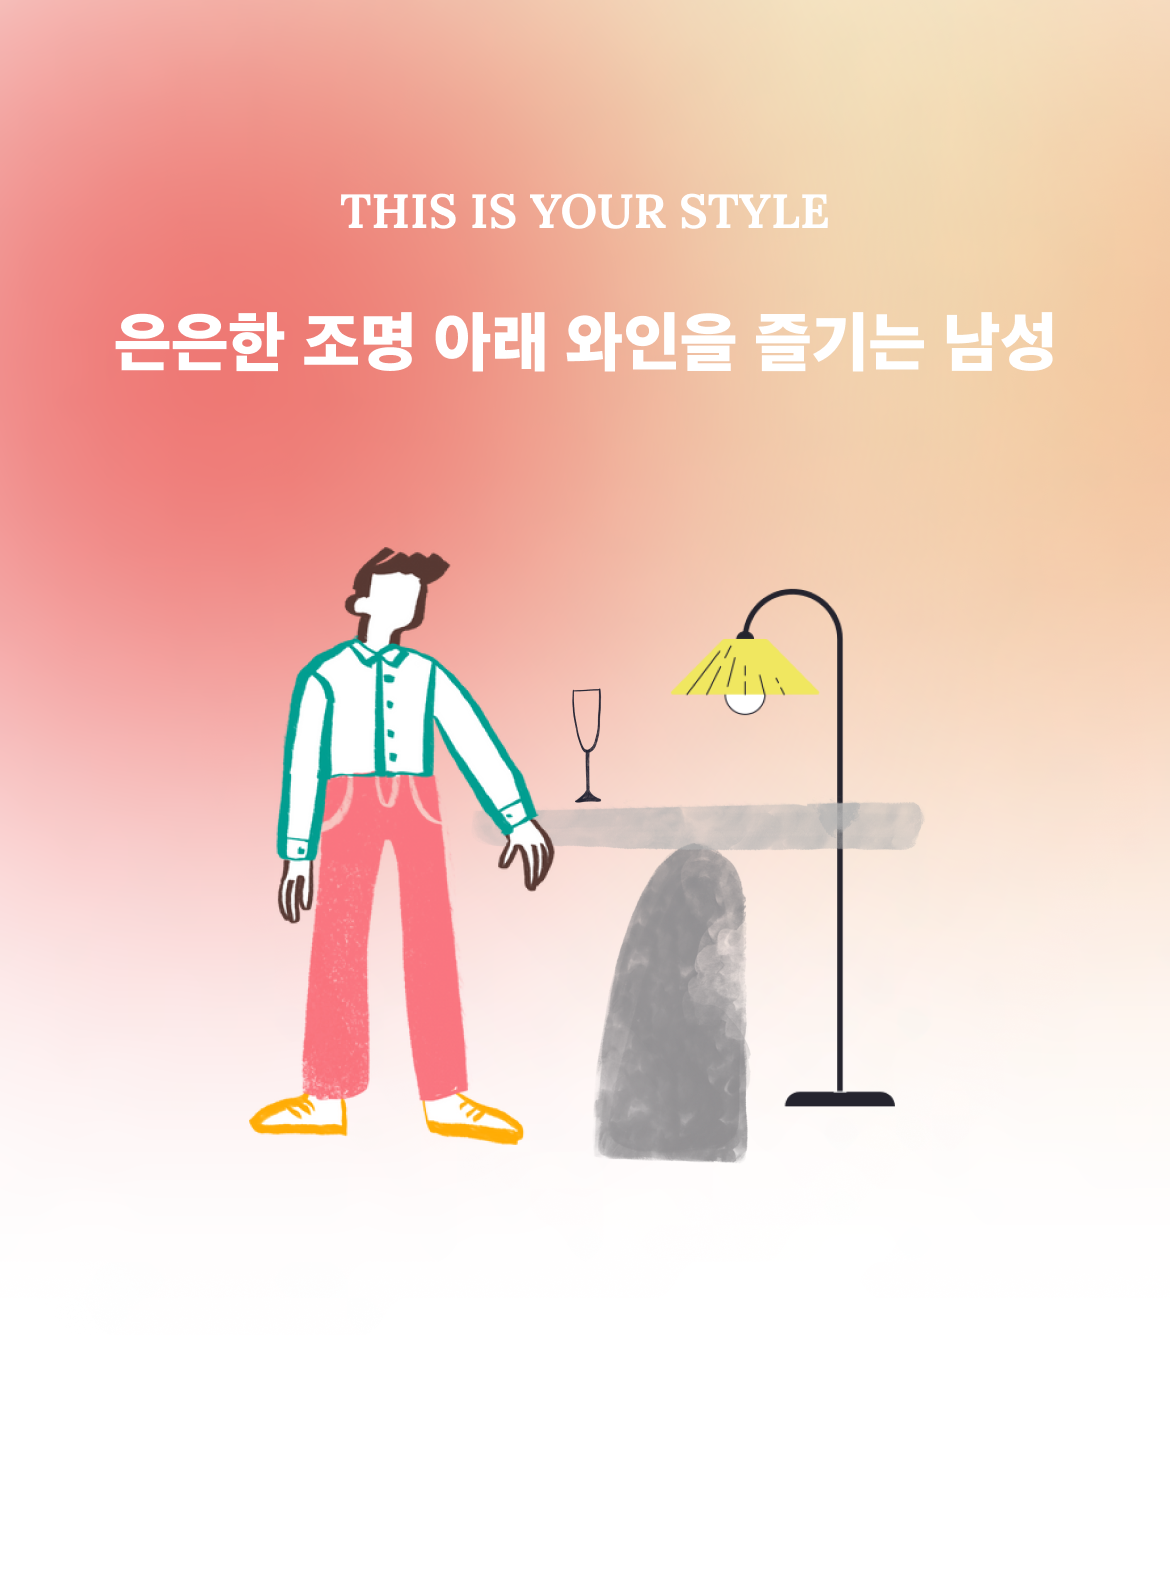
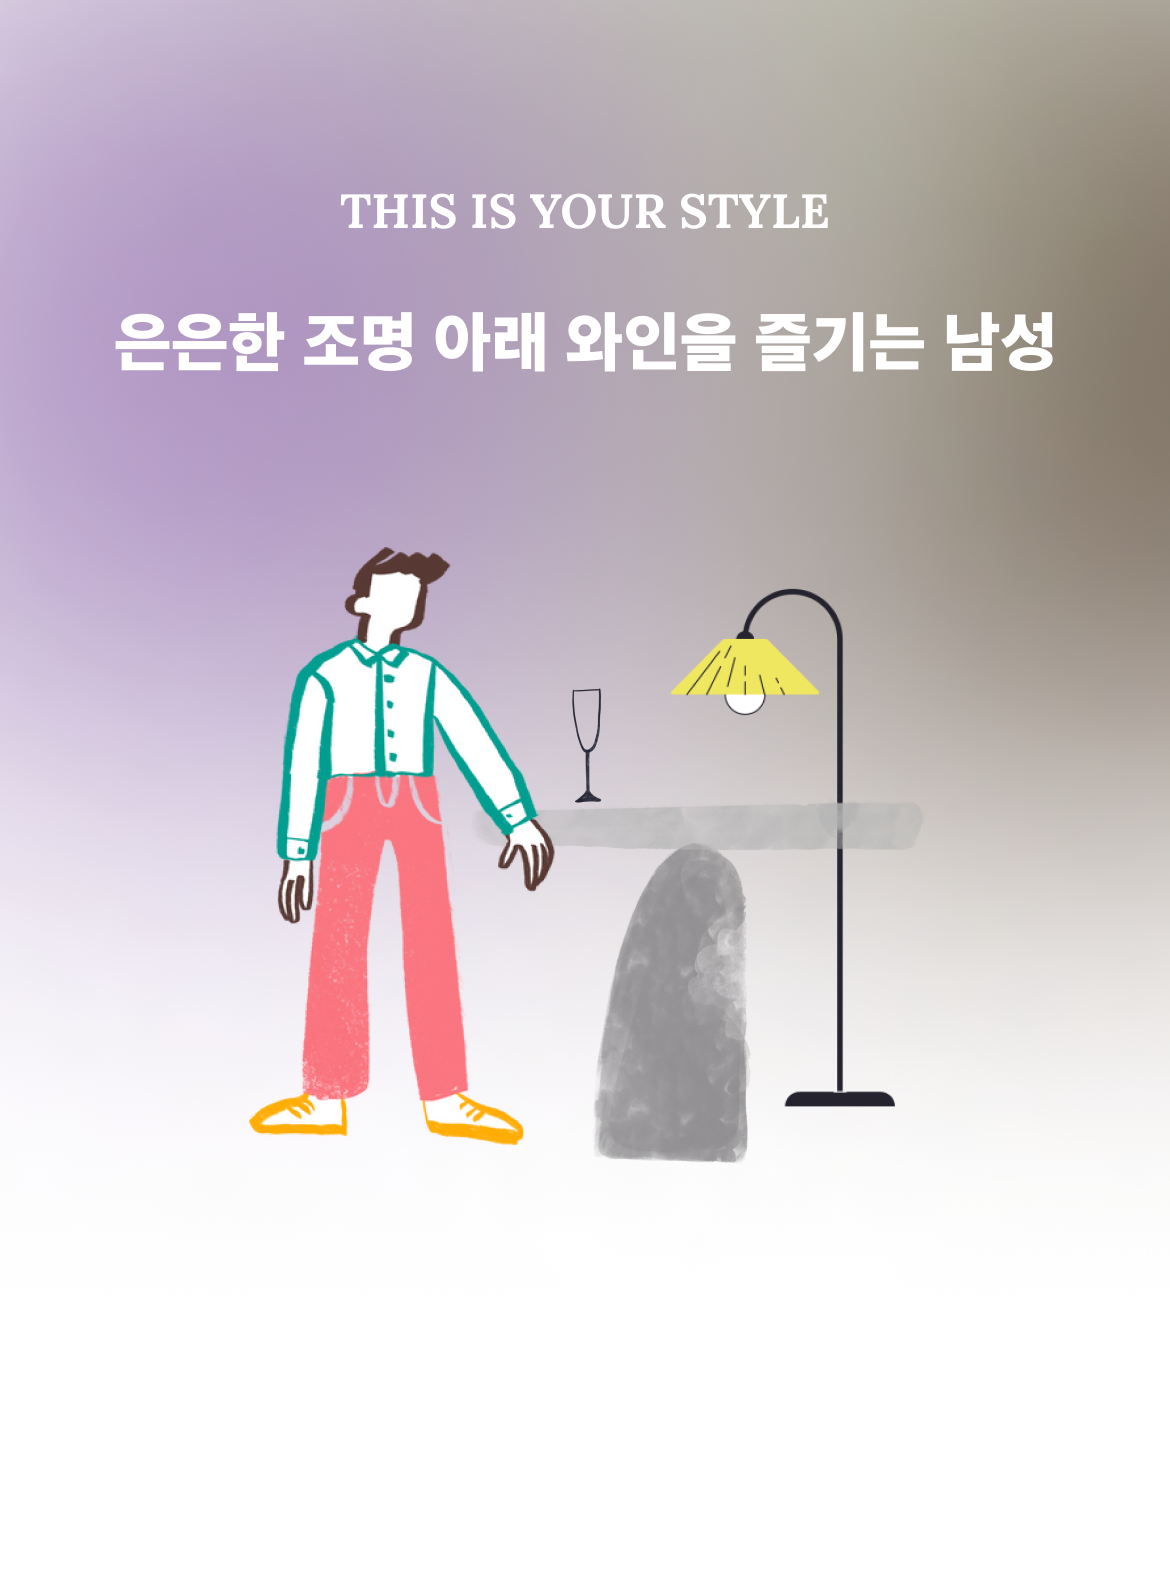
1023 1

diff --git a/flutter_service_worker.js b/flutter_service_worker.js
@@ -4,8 +4,8 @@ const TEMP = 'flutter-temp-cache';
 const CACHE_NAME = 'flutter-app-cache';
 
 const RESOURCES = {"version.json": "d8951f8942f3ae19e6043c8b2a510dae",
-"index.html": "24374c07da095ad0c45d7f852df7d019",
-"/": "24374c07da095ad0c45d7f852df7d019",
+"index.html": "068eb2956b9cf564be926512f9c8e0dc",
+"/": "068eb2956b9cf564be926512f9c8e0dc",
 "main.dart.js": "542a83bde2e9618bd3c0b12207390a19",
 "flutter.js": "6fef97aeca90b426343ba6c5c9dc5d4a",
 "favicon2.png": "5dcef449791fa27946b3d35ad8803796",
@@ -28,6 +28,7 @@ const RESOURCES = {"version.json": "d8951f8942f3ae19e6043c8b2a510dae",
 ".git/objects/95/0935db34f4880a3c4da97859585be125ddf6f7": "42fea2613f91b27ac9804f343d9e9710",
 ".git/objects/59/85c2cf6d5863d08c655ee8e7881988bec254b8": "2ac31e3530965f87931046513aa00b35",
 ".git/objects/59/d18528bca12a9aeff9448a7ffb9ee79105aab5": "489fc232e756a3bb746a432fb91f5aa3",
+".git/objects/59/f36241c86f83bca5dc18810572b26842239f37": "36e5f93f9d0445452f3f068721704b67",
 ".git/objects/59/75cabdecba54a56639e094a899e27b8d12a6d9": "5666cbae3f8def3c97d9a9332cf151d9",
 ".git/objects/59/9ec8172ad8a00bb41a6f788983d2f49ddb20a4": "447ba2d9ba9d003dc607342dcce943d2",
 ".git/objects/92/6fb560ad5cc378d42b26122445dd8dcc5c5762": "3fab85c2385131869a8e2f9a8169dd64",
@@ -77,6 +78,7 @@ const RESOURCES = {"version.json": "d8951f8942f3ae19e6043c8b2a510dae",
 ".git/objects/9e/5e1f1b6053cbe66378817c3d83a89ee430173f": "415cbf69b86b68fe3a73e8bbddc95c24",
 ".git/objects/9e/aec9cb0f6ea78efe80b3228af680befdc6802a": "c6e97df453364ae7702b1aefc11dc4e2",
 ".git/objects/9e/0b6c5bce9fbdfbcf55401a6f58ba9053bfb6b3": "8d7c3feca34c14e22d44f5f69ad0695c",
+".git/objects/9e/b8f32bbcce2aea75a32ca76ee81f0bea1f121a": "a99b2a9033d789cdc793196efcf4a045",
 ".git/objects/04/528fb730ae5151e5d5caf76c3173cb50d4ec0b": "90d8123782b65419b95fe776fa142a1b",
 ".git/objects/04/4387bd3697b0696b81f4a0888898a89a6947da": "c6f0c5a8f3f688c0df2e71739727a46c",
 ".git/objects/04/4e41acf66475f09c37f7ae4bfa0f09b050a538": "4b3894edd4289241bfa70b07040c37d7",
@@ -134,6 +136,7 @@ const RESOURCES = {"version.json": "d8951f8942f3ae19e6043c8b2a510dae",
 ".git/objects/60/7ba5b63573a0ea35c570a75bf5c618aadcbfd4": "f7fe8cbc1e107d646a17fc10370ed044",
 ".git/objects/34/718f4081ce3f2995a769e2b3d3d1e6782d0192": "64f945704ee1706018a2d89e3c77bd4a",
 ".git/objects/34/c4f93cc5c5d1a6d008e666660c472385d5c6ef": "7d68bf9748ff844bcea7676609e2d15b",
+".git/objects/34/e41074e9311a4975cde1093b0010bb00ebb6b0": "cb0b407b428d2abe8ae4549676dd64e9",
 ".git/objects/5a/d7273d06d77d966912839d2c11192f8d1d768e": "987ff91efc7efb67f9b3dd4757a7b0cf",
 ".git/objects/5a/7997dcba94365f761723e9abfbddfbd9258ebb": "0f07dc1be0ab92b51f8c9f40255897da",
 ".git/objects/5f/f48a4a6e64783d82315fca1cdbbbf19fa1c274": "3b668fe3f38d5a04dbfe90c69ca6e716",
@@ -381,6 +384,7 @@ const RESOURCES = {"version.json": "d8951f8942f3ae19e6043c8b2a510dae",
 ".git/objects/7e/0469cceab7378cf96bc1bd7d318eb9b9b64cf1": "c15edaae1f527730325dbfd28df08fec",
 ".git/objects/7e/8ed4edfb9befebc794d77faa551c65cd3d4b82": "d9a120078b4847a5f6a3ae786d7cf412",
 ".git/objects/7e/99d788e397d805dfb138dff88120d1046e773e": "bef673a55bf7d326c2e900a8da93e778",
+".git/objects/7e/3488e34e6d82239af3725fb66657f5260446b1": "efe03ee8b726710ec0f660f8d2b6103a",
 ".git/objects/10/ae1fab83ee7e579601bb499405bdebd3aabd02": "cf230e019a3e409e76f9d4b47acbd95a",
 ".git/objects/10/892eeceac74ac4b0066e16dc68906a2aafb5c6": "54bb3340600731d49d0b2f1abb81d2a6",
 ".git/objects/10/eff668f099a1275a81505e635c121412546702": "db1f4890e67162aa62424e3693b7e506",
@@ -509,6 +513,7 @@ const RESOURCES = {"version.json": "d8951f8942f3ae19e6043c8b2a510dae",
 ".git/objects/5e/5b0ceb25e0d6bbe5e5eb9af86ef1f874a79457": "4963a76c2b5ffb41dd1b8daac3d709c2",
 ".git/objects/5e/907014ac709f0c88753b39cd64e9036d94a871": "37c802ac76864776118228a20ed903b6",
 ".git/objects/5e/faeff389f2497bf417e514505e88b1fe33fb86": "42f9a5447f28c03d161adcd609fe7124",
+".git/objects/37/658e85cf8cf74a6d5b8ff8c093b11b637d3ef3": "b0c867b157c0b45e0e7aa29f442dca6a",
 ".git/objects/37/636a212667236ded5d4ce324927fcc4a084384": "f7caa9ce86261b15d00c9ddcc2052592",
 ".git/objects/08/48a05f799bd1f55ddcac753078e3324efd10ba": "a831d9bb99e76e9be962885c89667261",
 ".git/objects/08/f86f323edfcca0dda13ac50f4ead9c441dff92": "888e1f5de165da5fcc1cb22b1a8fc0a7",
@@ -735,6 +740,7 @@ const RESOURCES = {"version.json": "d8951f8942f3ae19e6043c8b2a510dae",
 ".git/objects/ce/aaff13ba1cd26c6ed671e0212f3bc84e7f7293": "39a1dd9017675edc31f4083593b55a2e",
 ".git/objects/ce/67fed36fc22d42848ea9569421eb4db6ed723e": "159789407d32b08b6a6c9764089ca0e9",
 ".git/objects/e0/cfb6cc910a76fc104b29a86f5ce12a43fdbd52": "4f463d2b6c8fce593a167a32c7d1b061",
+".git/objects/e0/ba6a0baa3e75b74bb0f36f384e42c349192bad": "6f369a1bf50836220197513e88dbd971",
 ".git/objects/e0/96e8db13e5358b8c3644e085b8c8329df03d11": "6c3f2a60992688ec68b1a5701142d167",
 ".git/objects/46/c2188a25cfd1c4e51ee5e08d2136d4c9aacb7c": "c991c7a60a13015de9a1c6d7189a2023",
 ".git/objects/46/72c69afa868f8e82c10bb0dd4190f294508616": "be85ce7f8bcae2665ea16a009b949116",
@@ -807,6 +813,7 @@ const RESOURCES = {"version.json": "d8951f8942f3ae19e6043c8b2a510dae",
 ".git/objects/8c/37574a5105571e032547ff6e896be93abc44c2": "939befa37c16fac1f4ea53cc1baa0e15",
 ".git/objects/8c/d2271e5bf7ccc1174d9edc5c06b53266490e2b": "3aaba7bfd40c6217b5291d216b44c755",
 ".git/objects/8c/35a2086fac0d0c2ddba9e835488bcd827eebf8": "5c6818f9be2ee33134d1297a21e81261",
+".git/objects/85/63dcb49e66d28b31c577a779fa6c919d8669a9": "2d8571f8fa7558d1e6f9488acff5e466",
 ".git/objects/1d/94b2cae4675907077535f4ea91c76bd1c75151": "a0c31599077c39e91298b484a7e43f6e",
 ".git/objects/1d/357a893b63f618c95c1c87174f7a7201d75358": "7fb9281574148fa914ef90c5d88be242",
 ".git/objects/1d/3a2f6c6f5e71a433b46fef9c56e12a1b40d555": "e804fcf2a500675387ab0ef9bc4092a3",
@@ -878,9 +885,9 @@ const RESOURCES = {"version.json": "d8951f8942f3ae19e6043c8b2a510dae",
 ".git/objects/25/532c887bc25c9b6ba59c899949c24e864cfe76": "4e1aa81a33201647740b716491afac62",
 ".git/HEAD": "4cf2d64e44205fe628ddd534e1151b58",
 ".git/info/exclude": "036208b4a1ab4a235d75c181e685e5a3",
-".git/logs/HEAD": "804479ff1f06bf509bd2b98e25710d95",
-".git/logs/refs/heads/master": "804479ff1f06bf509bd2b98e25710d95",
-".git/logs/refs/remotes/test04/master": "f2b28ffe9055e04af1c8d3e08be902e3",
+".git/logs/HEAD": "9ff3d3945899cac60e6f7899bb1b4e74",
+".git/logs/refs/heads/master": "9ff3d3945899cac60e6f7899bb1b4e74",
+".git/logs/refs/remotes/test04/master": "3b49820410b4cec9bab56e134dbf6738",
 ".git/logs/refs/remotes/test03/master": "c99b5dd75f04788f2e13f33c4750de7a",
 ".git/logs/refs/remotes/origin/HEAD": "52327f6484a06e6c13ed57441753f7d9",
 ".git/logs/refs/remotes/origin/master": "6068c1d21ec327e425dc69677e09de44",
@@ -898,14 +905,14 @@ const RESOURCES = {"version.json": "d8951f8942f3ae19e6043c8b2a510dae",
 ".git/hooks/pre-push.sample": "2c642152299a94e05ea26eae11993b13",
 ".git/hooks/update.sample": "647ae13c682f7827c22f5fc08a03674e",
 ".git/hooks/push-to-checkout.sample": "c7ab00c7784efeadad3ae9b228d4b4db",
-".git/refs/heads/master": "cb7fdf414e8c8c81eba66481dbd444ac",
-".git/refs/remotes/test04/master": "cb7fdf414e8c8c81eba66481dbd444ac",
+".git/refs/heads/master": "0c9b3770083bf6ad50ab80615ffe9b06",
+".git/refs/remotes/test04/master": "0c9b3770083bf6ad50ab80615ffe9b06",
 ".git/refs/remotes/test03/master": "8a1a80d17008b7b833ce739a6caab2d8",
 ".git/refs/remotes/origin/HEAD": "73a00957034783b7b5c8294c54cd3e12",
 ".git/refs/remotes/origin/master": "e8ec40e7be606e6d217ad3d1a412b848",
-".git/index": "b29cf05a317958c1674a77eb9bd39bb9",
+".git/index": "adc02eba10c16e5d100cc8dc792ec9b5",
 ".git/packed-refs": "c03a566346ed9045f5aa3b6936a67a9d",
-".git/COMMIT_EDITMSG": "a5412f0828e2282003ed484231adb8e2",
+".git/COMMIT_EDITMSG": "8ac9d4ed2507255cc9d12157a3d3ffb9",
 ".git/FETCH_HEAD": "155643b4f743066a3c741ed2a766d98c",
 "assets/AssetManifest.json": "9a8f696912595343bffbace5f373a717",
 "assets/NOTICES": "f0b0f9c78438c8945054105adbd74b80",
@@ -1095,12 +1102,13 @@ const RESOURCES = {"version.json": "d8951f8942f3ae19e6043c8b2a510dae",
 "assets/assets/images/lcResult/cover/whisky_man.png": "641b737ef9a7c3f0c2292abd5fc0b8a4",
 "assets/assets/images/lcResult/cover/career_woman.png": "a1a598a763d85dacc4b794d8f349ff52",
 "assets/assets/images/lcResult/cover/angel_of_pond.png": "6414eb5bdeae51c732867991ece65c2e",
-"assets/assets/images/lcResult/cover/wine_man.png": "2684adc383e9083f5ca126d0e6c3393a",
+"assets/assets/images/lcResult/cover/wine_man.png": "e11e793e07871af4367c6825933b808e",
 "assets/assets/images/lcResult/cover/producer_man.png": "97d21cdd6898692b12a1101d905cae4b",
 "assets/assets/images/lcResult/cover/picnic_girl.png": "82433f8ce3d49ccb0e70c018f790fe91",
 "assets/assets/images/lcResult/cover/skate_boy.png": "2f80b91bd35f838548915279cb1d8b60",
 "assets/assets/images/lcResult/cover/spring_girl.png": "debf8a1bfbd3a368624111aca8b3f8ea",
 "assets/assets/images/lcResult/cover/city_man.png": "832fbadff06d7a73ff353c51cee7645c",
+"assets/assets/images/lcResult/cover/asdfa.png": "2684adc383e9083f5ca126d0e6c3393a",
 "assets/assets/images/lcResult/cover/spotlight.png": "794c2d4b192e84ba7cab60240b390582",
 "assets/assets/images/lcResult/cover/writer_man.png": "c33e45a0f09f3b6e2ffdd0ccb1ffb48a",
 "assets/assets/images/flavor/lc/spicy.png": "14848626eb475b7047e3ad9b1f2533ff",
@@ -1160,6 +1168,7 @@ const RESOURCES = {"version.json": "d8951f8942f3ae19e6043c8b2a510dae",
 "assets/assets/fonts/AppleSDGothicNeoT.ttf": "c86faaf0dfc0eecd7d3fb29a684f9706",
 "assets/assets/fonts/Lora-Regular.ttf": "5fbbc2dd9545c49556bbf4323e73ffe0",
 "assets/assets/fonts/AppleSDGothicNeoR.ttf": "85ba110e6b8d4c2e961f21ef648d27ea",
+"loading.png": "f86d158fe06af4ddaaa009a1dafa87d3",
 "canvaskit/skwasm.js": "95f16c6690f955a45b2317496983dbe9",
 "canvaskit/skwasm.wasm": "1a074e8452fe5e0d02b112e22cdcf455",
 "canvaskit/chromium/canvaskit.js": "96ae916cd2d1b7320fff853ee22aebb0",

diff --git a/index.html b/index.html
@@ -40,31 +40,41 @@
 
   <script>
     // The value below is injected by flutter build, do not touch.
-    const serviceWorkerVersion = "1613724427";
+    const serviceWorkerVersion = "1410299362";
   </script>
   <!-- This script adds the flutter initialization JS code -->
   <script src="flutter.js" defer></script>
 
   <!-- for loading -->
   <style>
+    html, body {
+      height: 100%;
+      margin: 0;
+      padding: 0;
+      background-color: white;
+    }
+
     #loading {
-        position: fixed;
-        top: 0;
-        left: 0;
-        width: 100%;
-        height: 100%;
-        background-color: white;
-        display: flex;
-        justify-content: center;
-        align-items: center;
+      position: fixed;
+      top: 0;
+      left: 0;
+      width: 100%;
+      height: 100%;
+      background-image: url('loading.png'); /* 여기에 실제 이미지 경로를 입력하세요 */
+      background-size: cover;
+      background-position: center;
+      background-repeat: no-repeat;
+      display: flex;
+      justify-content: center;
+      align-items: center;
     }
 </style>
 </head>
 <body>
   <div id="loading">
-    <div>Loading...</div>
+    <!-- <div>Loading...</div> -->
   </div>
-<script>
+  <script>
     //플러터 앱이 로드되면 로딩 화면을 숨김
     window.addEventListener('flutter-first-frame', function () {
         document.getElementById('loading').style.display = 'none';
